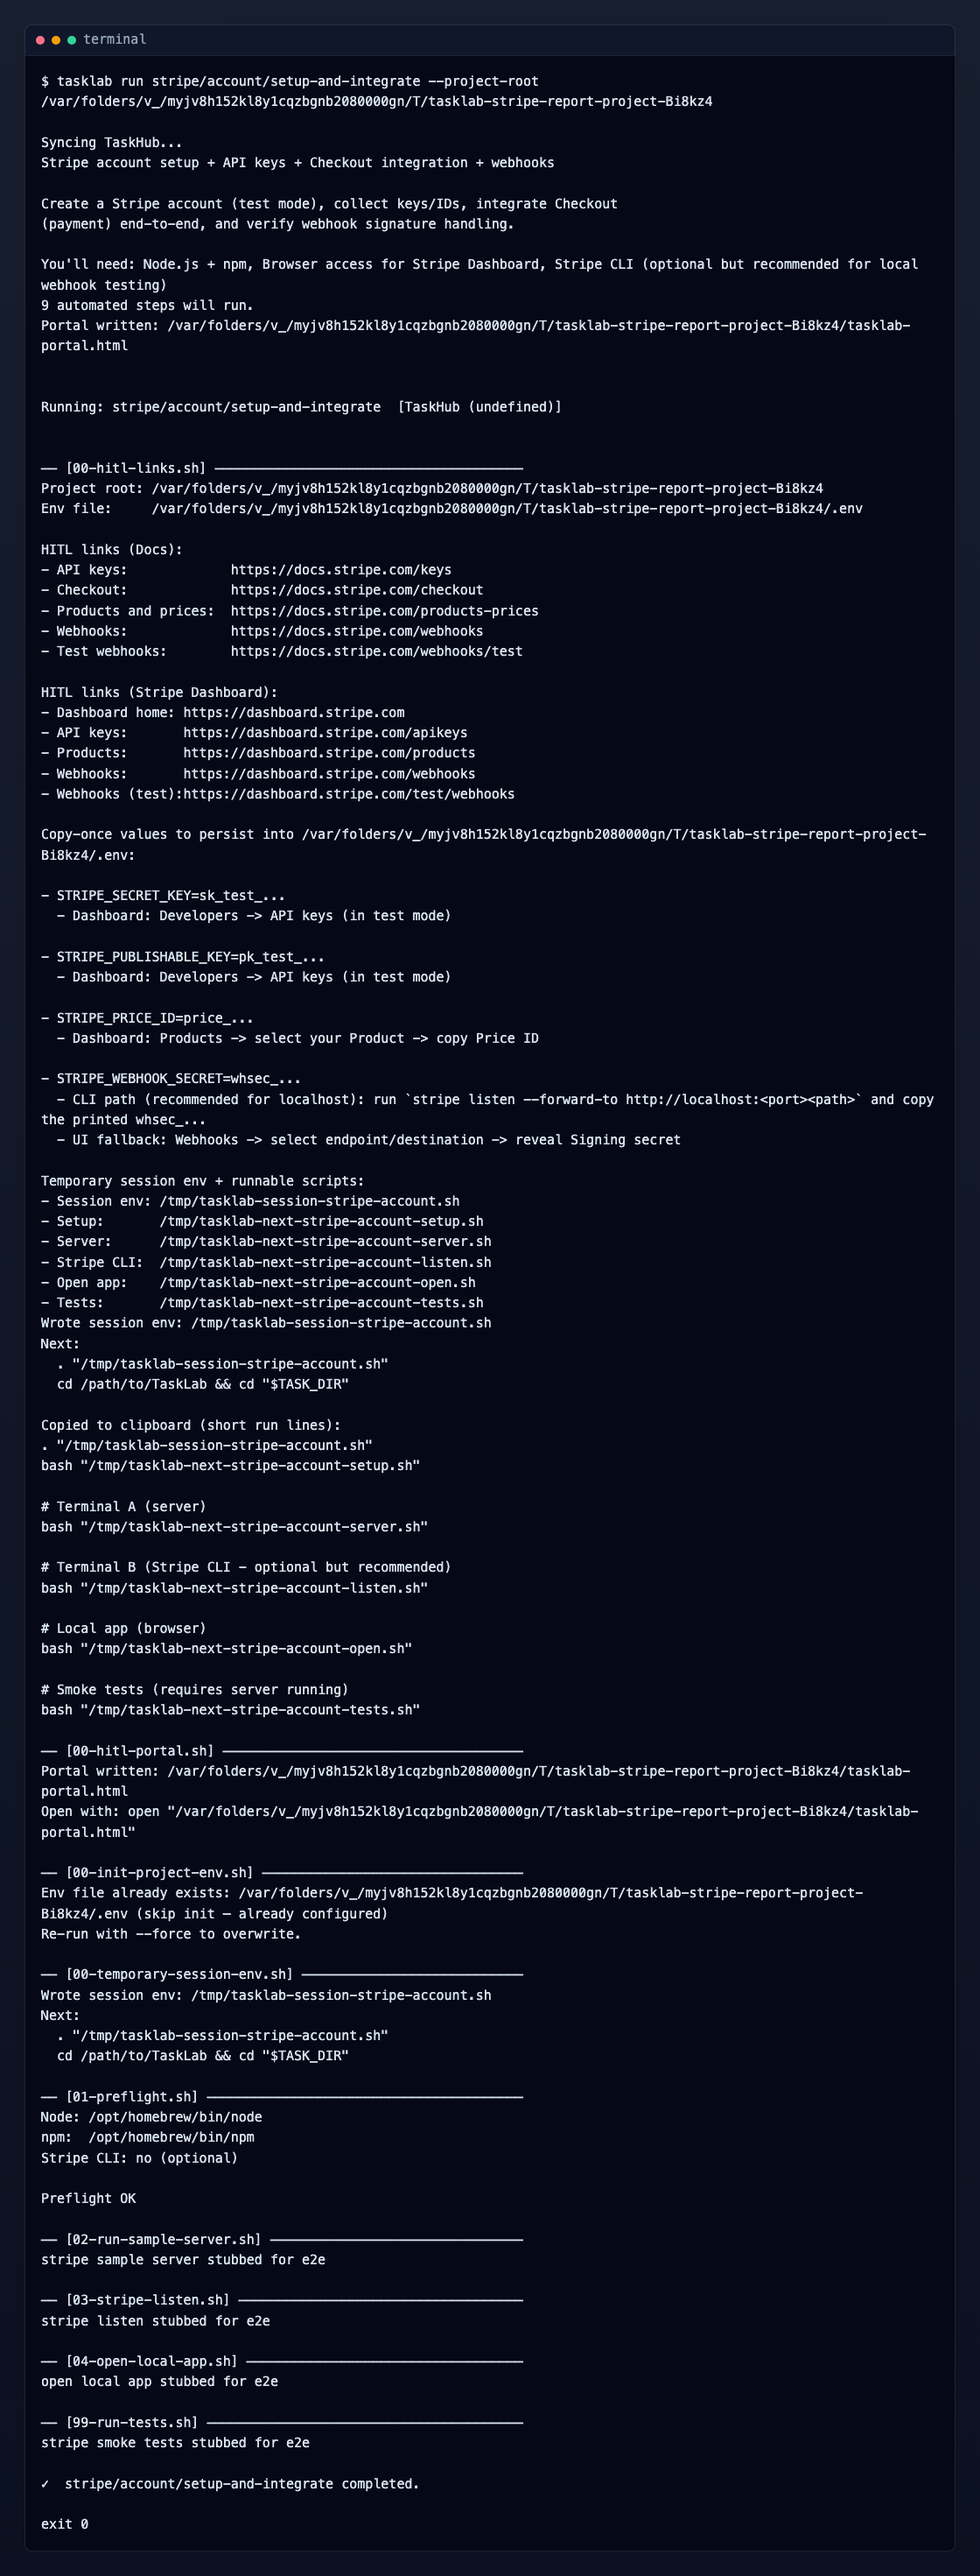
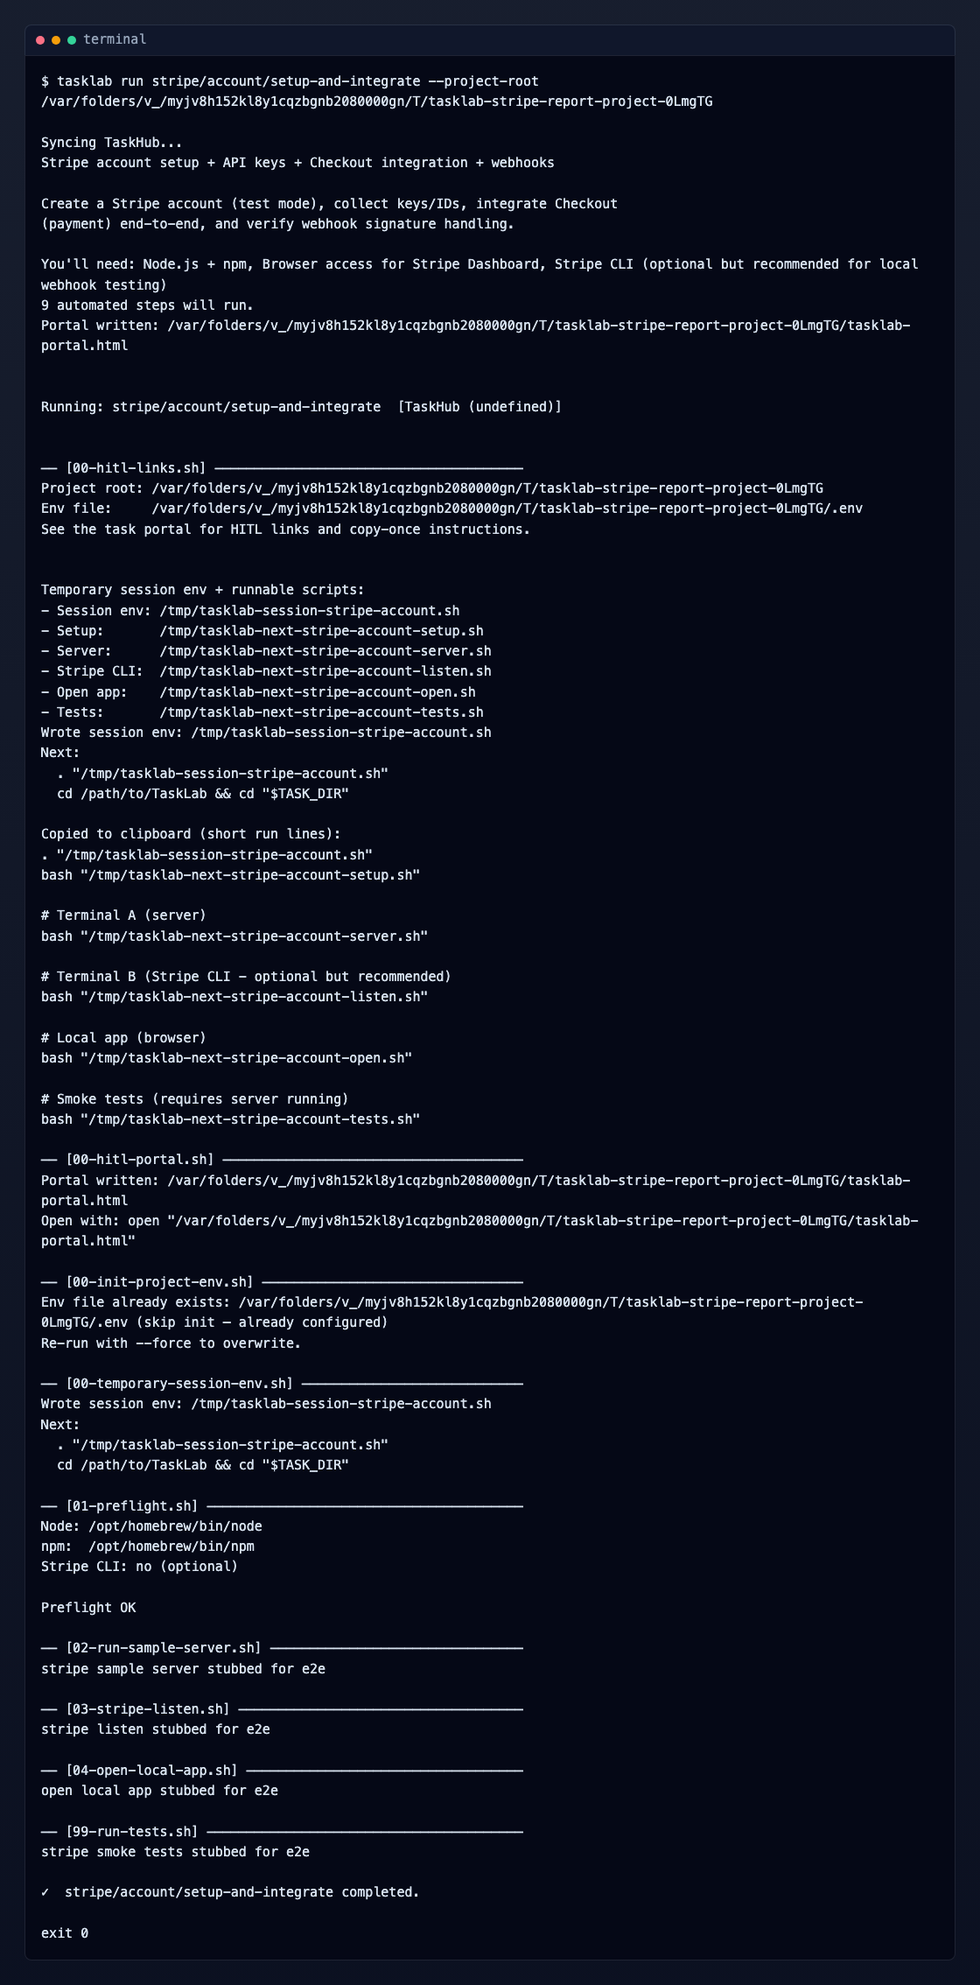
humanised portal

diff --git a/docs/assets/stripe-setup-cli.html b/docs/assets/stripe-setup-cli.html
@@ -48,7 +48,7 @@
 <body>
   <div class="frame">
     <div class="bar"><span class="dot red"></span><span class="dot yellow"></span><span class="dot green"></span><span>terminal</span></div>
-    <pre>$ tasklab run stripe/account/setup-and-integrate --project-root /var/folders/v_/myjv8h152kl8y1cqzbgnb2080000gn/T/tasklab-stripe-report-project-Bi8kz4
+    <pre>$ tasklab run stripe/account/setup-and-integrate --project-root /var/folders/v_/myjv8h152kl8y1cqzbgnb2080000gn/T/tasklab-stripe-report-project-0LmgTG
 
 Syncing TaskHub... 
 Stripe account setup + API keys + Checkout integration + webhooks
@@ -58,44 +58,17 @@ Create a Stripe account (test mode), collect keys/IDs, integrate Checkout
 
 You'll need: Node.js + npm, Browser access for Stripe Dashboard, Stripe CLI (optional but recommended for local webhook testing)
 9 automated steps will run.
-Portal written: /var/folders/v_/myjv8h152kl8y1cqzbgnb2080000gn/T/tasklab-stripe-report-project-Bi8kz4/tasklab-portal.html
+Portal written: /var/folders/v_/myjv8h152kl8y1cqzbgnb2080000gn/T/tasklab-stripe-report-project-0LmgTG/tasklab-portal.html
 
 
 Running: stripe/account/setup-and-integrate  [TaskHub (undefined)]
 
 
 ── [00-hitl-links.sh] ───────────────────────────────────────
-Project root: /var/folders/v_/myjv8h152kl8y1cqzbgnb2080000gn/T/tasklab-stripe-report-project-Bi8kz4
-Env file:     /var/folders/v_/myjv8h152kl8y1cqzbgnb2080000gn/T/tasklab-stripe-report-project-Bi8kz4/.env
+Project root: /var/folders/v_/myjv8h152kl8y1cqzbgnb2080000gn/T/tasklab-stripe-report-project-0LmgTG
+Env file:     /var/folders/v_/myjv8h152kl8y1cqzbgnb2080000gn/T/tasklab-stripe-report-project-0LmgTG/.env
+See the task portal for HITL links and copy-once instructions.
 
-HITL links (Docs):
-- API keys:             https://docs.stripe.com/keys
-- Checkout:             https://docs.stripe.com/checkout
-- Products and prices:  https://docs.stripe.com/products-prices
-- Webhooks:             https://docs.stripe.com/webhooks
-- Test webhooks:        https://docs.stripe.com/webhooks/test
-
-HITL links (Stripe Dashboard):
-- Dashboard home: https://dashboard.stripe.com
-- API keys:       https://dashboard.stripe.com/apikeys
-- Products:       https://dashboard.stripe.com/products
-- Webhooks:       https://dashboard.stripe.com/webhooks
-- Webhooks (test):https://dashboard.stripe.com/test/webhooks
-
-Copy-once values to persist into /var/folders/v_/myjv8h152kl8y1cqzbgnb2080000gn/T/tasklab-stripe-report-project-Bi8kz4/.env:
-
-- STRIPE_SECRET_KEY=sk_test_...
-  - Dashboard: Developers -&gt; API keys (in test mode)
-
-- STRIPE_PUBLISHABLE_KEY=pk_test_...
-  - Dashboard: Developers -&gt; API keys (in test mode)
-
-- STRIPE_PRICE_ID=price_...
-  - Dashboard: Products -&gt; select your Product -&gt; copy Price ID
-
-- STRIPE_WEBHOOK_SECRET=whsec_...
-  - CLI path (recommended for localhost): run `stripe listen --forward-to http://localhost:&lt;port&gt;&lt;path&gt;` and copy the printed whsec_...
-  - UI fallback: Webhooks -&gt; select endpoint/destination -&gt; reveal Signing secret
 
 Temporary session env + runnable scripts:
 - Session env: /tmp/tasklab-session-stripe-account.sh
@@ -126,11 +99,11 @@ bash "/tmp/tasklab-next-stripe-account-open.sh"
 bash "/tmp/tasklab-next-stripe-account-tests.sh"
 
 ── [00-hitl-portal.sh] ──────────────────────────────────────
-Portal written: /var/folders/v_/myjv8h152kl8y1cqzbgnb2080000gn/T/tasklab-stripe-report-project-Bi8kz4/tasklab-portal.html
-Open with: open "/var/folders/v_/myjv8h152kl8y1cqzbgnb2080000gn/T/tasklab-stripe-report-project-Bi8kz4/tasklab-portal.html"
+Portal written: /var/folders/v_/myjv8h152kl8y1cqzbgnb2080000gn/T/tasklab-stripe-report-project-0LmgTG/tasklab-portal.html
+Open with: open "/var/folders/v_/myjv8h152kl8y1cqzbgnb2080000gn/T/tasklab-stripe-report-project-0LmgTG/tasklab-portal.html"
 
 ── [00-init-project-env.sh] ─────────────────────────────────
-Env file already exists: /var/folders/v_/myjv8h152kl8y1cqzbgnb2080000gn/T/tasklab-stripe-report-project-Bi8kz4/.env (skip init — already configured)
+Env file already exists: /var/folders/v_/myjv8h152kl8y1cqzbgnb2080000gn/T/tasklab-stripe-report-project-0LmgTG/.env (skip init — already configured)
 Re-run with --force to overwrite.
 
 ── [00-temporary-session-env.sh] ────────────────────────────

diff --git a/tests/e2e/stripe-setup.spec.js b/tests/e2e/stripe-setup.spec.js
@@ -61,7 +61,7 @@ test('runs the Stripe setup TaskHub task through CLI and verifies the task porta
 
   expect(result.code).toBe(0);
   expect(result.stdout).toContain('Stripe account setup + API keys + Checkout integration + webhooks');
-  expect(result.stdout).toContain('HITL links (Stripe Dashboard)');
+  expect(result.stdout).toContain('See the task portal for HITL links and copy-once instructions.');
   expect(result.stdout).toContain('Preflight OK');
   expect(result.stdout).toContain('stripe sample server stubbed for e2e');
   expect(result.stdout).toContain('stripe listen stubbed for e2e');
@@ -88,11 +88,13 @@ test('runs the Stripe setup TaskHub task through CLI and verifies the task porta
   await expect(page.getByRole('heading', { name: 'Stripe account setup + API keys + Checkout integration + webhooks' })).toBeVisible();
   await expect(page.getByText('Browser access for Stripe Dashboard')).toBeVisible();
   await expect(page.getByText('Stripe CLI (optional but recommended for local webhook testing)')).toBeVisible();
-  await expect(page.getByText('Run outputs/scripts/00-hitl-links.sh')).toBeVisible();
+  await expect(page.getByText('Collect Stripe publishable + secret API keys (test mode)')).toBeVisible();
+  await expect(page.getByText('Create a test Product + Price and capture STRIPE_PRICE_ID')).toBeVisible();
+  await expect(page.getByText('Configure a webhook destination/endpoint and capture STRIPE_WEBHOOK_SECRET')).toBeVisible();
   await expect(page.getByText('Fill your project `.env` via outputs/scripts/00-init-project-env.sh')).toBeVisible();
   await expect(page.getByText('Run outputs/scripts/99-run-tests.sh')).toBeVisible();
-  await expect(page.locator('.step-card.status-success')).toHaveCount(7);
-  await expect(page.locator('.status-pill.status-success')).toHaveCount(7);
+  await expect(page.locator('.step-card.status-success')).toHaveCount(6);
+  await expect(page.locator('.status-pill.status-success')).toHaveCount(6);
 
   fs.rmSync(projectRoot, { recursive: true, force: true });
   fs.rmSync(homeDir, { recursive: true, force: true });

diff --git a/lib/run.js b/lib/run.js
@@ -123,6 +123,23 @@ function openPortal(taskDir, projectRoot) {
   console.log('Portal opened in browser — use it to track task progress and HITL steps.\n');
 }
 
+function runScript(cmd, args, { cwd }) {
+  return new Promise((resolve, reject) => {
+    const proc = spawn(cmd, args, { stdio: ['inherit', 'pipe', 'pipe'], cwd });
+    let stdout = '';
+    let stderr = '';
+    proc.stdout.on('data', chunk => { process.stdout.write(chunk); stdout += chunk.toString(); });
+    proc.stderr.on('data', chunk => { process.stderr.write(chunk); stderr += chunk.toString(); });
+    proc.on('close', code => {
+      if (code === 0) return resolve();
+      const err = new Error(`exited ${code}`);
+      err.status = code;
+      err.output = (stderr.trim() || stdout.trim()) || null;
+      reject(err);
+    });
+  });
+}
+
 async function run(slug, opts = {}) {
   const { projectRoot = process.cwd(), envFile = null, hubRef = null } = opts;
 
@@ -191,14 +208,11 @@ async function run(slug, opts = {}) {
     generatePortal(task.dir, projectRoot, { quiet: true });
 
     try {
-      execFileSync('bash', [scriptPath, ...extraArgs], {
-        stdio: 'inherit',
-        cwd: projectRoot,
-      });
+      await runScript('bash', [scriptPath, ...extraArgs], { cwd: projectRoot });
       runState = markScriptSuccess(projectRoot, runState, scriptPath);
       generatePortal(task.dir, projectRoot, { quiet: true });
     } catch (err) {
-      runState = markScriptFailed(projectRoot, runState, scriptPath, err.status ?? 1);
+      runState = markScriptFailed(projectRoot, runState, scriptPath, err.status ?? 1, err.output);
       generatePortal(task.dir, projectRoot, { quiet: true });
       console.error(`\n✗  ${name} failed (exit ${err.status ?? 1})`);
       console.error('   Fix the issue above and re-run, or run the script directly:');

diff --git a/lib/portal/generate.js b/lib/portal/generate.js
@@ -238,6 +238,11 @@ function renderStep(step, runState) {
   }
 
   const copyCmd = scriptMatch ? `bash ${scriptMatch[0]}` : step.text.replace(/\.$/, '');
+  const failOutput = status === 'failed' && runStep?.output
+    ? `<div class="px-3 pb-3 pl-[38px]">
+        <pre class="text-xs text-rose-300 bg-rose-950/40 border border-rose-400/20 rounded-lg p-3 whitespace-pre-wrap overflow-x-auto font-mono leading-relaxed">${esc(runStep.output)}</pre>
+      </div>`
+    : '';
   return `
     <div class="step-card bg-gray-900 border border-gray-800 rounded-xl mb-2 overflow-hidden status-${esc(status)}" id="sc-${step.idx}" data-step-idx="${step.idx}" data-status="${esc(status)}">
       <div class="step-header flex items-start justify-between gap-3 p-3">
@@ -251,6 +256,7 @@ function renderStep(step, runState) {
           ${doneLabel}
         </div>
       </div>
+      ${failOutput}
     </div>`;
 }
 

diff --git a/docs/assets/run-taskhub-cli.html b/docs/assets/run-taskhub-cli.html
@@ -48,7 +48,7 @@
 <body>
   <div class="frame">
     <div class="bar"><span class="dot red"></span><span class="dot yellow"></span><span class="dot green"></span><span>terminal</span></div>
-    <pre>$ tasklab run demo/success --project-root /var/folders/v_/myjv8h152kl8y1cqzbgnb2080000gn/T/tasklab-report-project-fpIMwD
+    <pre>$ tasklab run demo/success --project-root /var/folders/v_/myjv8h152kl8y1cqzbgnb2080000gn/T/tasklab-report-project-QbCjU6
 
 Syncing TaskHub... 
 E2E demo/success
@@ -57,7 +57,7 @@ Fixture task for command-line and portal E2E coverage.
 
 You'll need: Node.js
 2 automated steps will run.
-Portal written: /var/folders/v_/myjv8h152kl8y1cqzbgnb2080000gn/T/tasklab-report-project-fpIMwD/tasklab-portal.html
+Portal written: /var/folders/v_/myjv8h152kl8y1cqzbgnb2080000gn/T/tasklab-report-project-QbCjU6/tasklab-portal.html
 
 
 Running: demo/success  [TaskHub (undefined)]

diff --git a/lib/run-state.js b/lib/run-state.js
@@ -71,12 +71,14 @@ function markScriptSuccess(projectRoot, state, scriptPath) {
   }));
 }
 
-function markScriptFailed(projectRoot, state, scriptPath, exitCode) {
-  const next = updateScript(state, scriptPath, {
+function markScriptFailed(projectRoot, state, scriptPath, exitCode, output) {
+  const patch = {
     status: 'failed',
     completed_at: new Date().toISOString(),
     exit_code: exitCode ?? 1,
-  });
+  };
+  if (output) patch.output = output.slice(0, 4000);
+  const next = updateScript(state, scriptPath, patch);
   return writeRunState(projectRoot, {
     ...next,
     status: 'failed',

diff --git a/docs/dev-vs-prod-notes.md b/docs/dev-vs-prod-notes.md
@@ -1,0 +1,18 @@
+# Dev vs prod notes
+
+## Running local source instead of the global npm install
+
+From the `tasklab` directory:
+
+```
+npm link
+```
+
+This wires the global `tasklab` command to `./bin/tasklab.js` in your local checkout. Changes to source are picked up immediately — no reinstall needed.
+
+To restore the published version:
+
+```
+npm unlink          # from the tasklab directory
+npm install -g tasklab
+```
